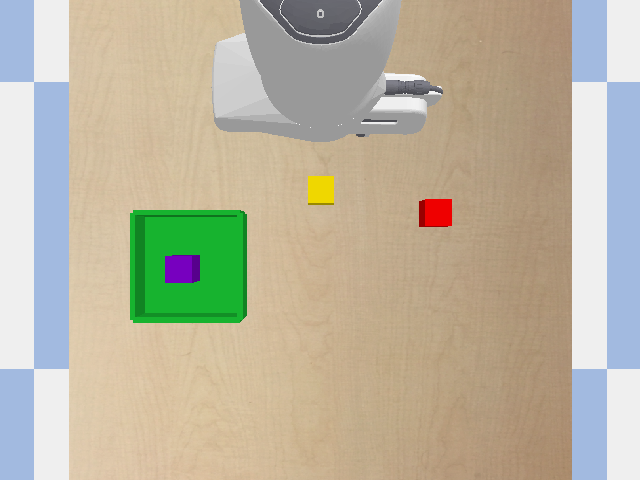
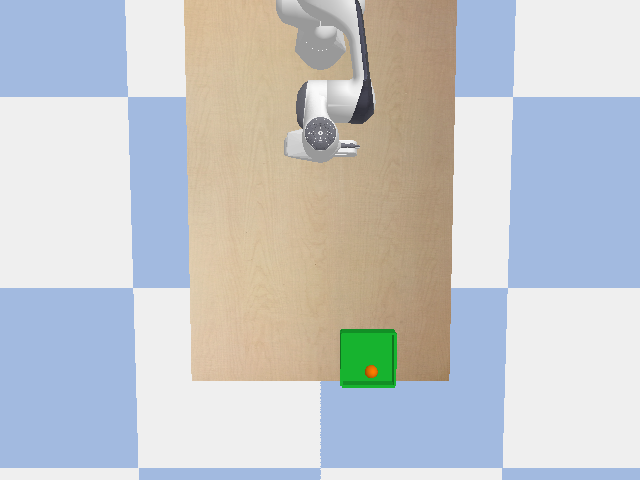
Robot learns hidden physics: throw misses -20%, learns x1.16 correction, new target hit first try

diff --git a/skills.py b/skills.py
@@ -1,17 +1,22 @@
 import ast
 
-API_METHODS = {"see", "pick", "place_on", "is_holding", "put_aside", "ask"}
+API_METHODS = {"see", "pick", "place_on", "is_holding", "put_aside", "ask",
+               "see_far", "release_point", "toss"}
 SAFE_BUILTINS = {"len", "range", "print", "abs", "min", "max", "round", "str", "int",
                  "float", "bool", "list", "enumerate", "sorted", "any", "all", "isinstance"}
 MAX_ACTIONS = 30
 
 API_DOC = """
-robot.ask(question) -> short text answer from looking at the camera now, e.g. robot.ask("Which object is on top of the purple cube?") -> "yellow cube"
-robot.put_aside() -> True/False   (put the held object down on a free spot of the table)
 robot.see(phrase) -> list of [x, y, z] positions (top surface, meters), best match first; [] if not seen
 robot.pick(phrase) -> True/False   (pick up the object named by phrase)
 robot.place_on(phrase) -> True/False   (put the held object on top of / into the named thing)
 robot.is_holding() -> True/False
+robot.put_aside() -> True/False   (put the held object down on a free spot of the table)
+robot.ask(question) -> short text answer from looking at the camera now, e.g. robot.ask("Which object is on top of the purple cube?") -> "yellow cube"
+robot.see_far(phrase) -> like see(), but uses a wide camera that also sees far things (far tray, thrown ball)
+robot.release_point() -> [x, y, z] where a throw starts
+robot.toss(speed, angle_deg, heading_deg) -> True/False   (throw the held object; heading 0 = +x, 90 = +y; speed 0-6 m/s; the landing spot is measured and logged)
+Math helpers: math.sqrt, math.sin, math.cos, math.tan, math.atan2, math.radians, math.degrees, math.hypot, math.pi, and G = 9.81
 Phrases are short noun phrases, e.g. "red cube", "blue cube", "tray".
 """
 
@@ -20,23 +25,12 @@ class RobotAPI:
     def __init__(self, env):
         self.env = env
         self.log = []
+        self.last_phrase = None
 
     def _record(self, action, arg, result):
         self.log.append({"action": action, "arg": arg, "result": result})
         if len(self.log) > MAX_ACTIONS:
             raise RuntimeError("too many actions")
-        
-    def ask(self, question):
-        from llm import spark_vision
-        rgb, _ = self.env.camera()
-        answer = spark_vision(question, rgb)
-        self._record("ask", question, answer)
-        return answer  
-      
-    def put_aside(self):
-        ok, msg = self.env.put_aside()
-        self._record("put_aside", "", msg)
-        return ok    
 
     def see(self, phrase):
         found = [[round(c, 3) for c in f["pos"]] for f in self.env.perceive(phrase)]
@@ -46,6 +40,8 @@ class RobotAPI:
     def pick(self, phrase):
         ok, msg = self.env.pick_seen(phrase)
         self._record("pick", phrase, msg)
+        if ok:
+            self.last_phrase = phrase
         return ok
 
     def place_on(self, phrase):
@@ -55,6 +51,46 @@ class RobotAPI:
 
     def is_holding(self):
         return self.env.held is not None
+
+    def put_aside(self):
+        ok, msg = self.env.put_aside()
+        self._record("put_aside", "", msg)
+        return ok
+
+    def ask(self, question):
+        from llm import spark_vision
+        rgb, _ = self.env.camera()
+        answer = spark_vision(question, rgb)
+        self._record("ask", question, answer)
+        return answer
+
+    def see_far(self, phrase):
+        found = [[round(c, 3) for c in f["pos"]] for f in self.env.perceive(phrase, "wide")]
+        self._record("see_far", phrase, found)
+        return found
+
+    def release_point(self):
+        from robot_env import RELEASE
+        return list(RELEASE)
+
+    def toss(self, speed, angle_deg, heading_deg):
+        from robot_env import RELEASE
+        speed, angle_deg, heading_deg = float(speed), float(angle_deg), float(heading_deg)
+        args = f"speed={speed:.3f}, angle={angle_deg:.1f}, heading={heading_deg:.1f}"
+        if not 0 < speed <= 6:
+            self._record("toss", args, "REFUSED: speed outside safe range 0-6 m/s")
+            return False
+        ok, msg = self.env.toss(speed, angle_deg, heading_deg)
+        if ok and self.last_phrase:  # measure where it landed (SAM 3.1, wide camera)
+            found = self.env.perceive(self.last_phrase, "wide")
+            if found:
+                lx, ly, lz = found[0]["pos"]
+                d = ((lx - RELEASE[0]) ** 2 + (ly - RELEASE[1]) ** 2) ** 0.5
+                msg += f"; landed at [{lx:.3f}, {ly:.3f}, {lz:.3f}], {d:.3f} m from release point"
+            else:
+                msg += "; landing spot not visible"
+        self._record("toss", args, msg)
+        return ok
 
 
 def check_code(code):
@@ -87,7 +123,12 @@ def check_code(code):
 
 def run_skill(code, api):
     import builtins
+    import math
+    from types import SimpleNamespace
     safe = {k: getattr(builtins, k) for k in SAFE_BUILTINS}
-    scope = {"__builtins__": safe}
+    math_tools = SimpleNamespace(**{k: getattr(math, k) for k in
+                                    ("sqrt", "sin", "cos", "tan", "atan", "atan2", "asin", "acos",
+                                     "radians", "degrees", "hypot", "pi")})
+    scope = {"__builtins__": safe, "math": math_tools, "G": 9.81}
     exec(compile(code, "<skill>", "exec"), scope)
     return scope["skill"](api)

diff --git a/learner.py b/learner.py
@@ -20,8 +20,8 @@ Check return values. Return True if the task is done, else False.
 Reply with only one ```python code block."""
 
 
-def load_library():
-    return json.load(open(LIBRARY)) if os.path.exists(LIBRARY) else []
+def load_library(path=LIBRARY):
+    return json.load(open(path)) if os.path.exists(path) else []
 
 
 def memory_text(lib):
@@ -36,7 +36,7 @@ def memory_text(lib):
 
 def run_attempt(code, build_scene, check, gui):
     env = build_scene(gui)
-    before, _ = env.camera()
+    before, _ = env.camera(env.main_view)
     api = RobotAPI(env)
     problem = check_code(code)
     if problem:
@@ -47,22 +47,22 @@ def run_attempt(code, build_scene, check, gui):
         except Exception as e:
             result = f"crashed: {e}"
     env.go_home()  # move the arm out of the camera's view
-    after, _ = env.camera()
+    after, _ = env.camera(env.main_view)
     ok, msg = check(env)
     env.close()
     return ok, msg, result, api.log, before, after
 
 
-def learn(task, build_scene, check, use_memory=True, save=True,
-          max_attempts=3, gui=True, verbose=True, use_imagination=True):
-    lib = load_library() if use_memory else []
+def learn(task, build_scene, check, use_memory=True, save=True, max_attempts=3,
+          gui=True, verbose=True, use_imagination=True, library=LIBRARY):
+    lib = load_library(library) if use_memory else []
 
     # 1) IMAGINE the goal before acting (Muse Image)
     imagined = None
     if use_imagination:
         try:
             env0 = build_scene(False)
-            start, _ = env0.camera()
+            start, _ = env0.camera(env0.main_view)
             env0.close()
             imagined = imagine(task, start)
             Image.fromarray(imagined).save("runs/imagined.png")
@@ -107,13 +107,14 @@ def learn(task, build_scene, check, use_memory=True, save=True,
                     {"role": "user", "content":
                         "It worked. Write ONE short general LESSON (one sentence) that would "
                         "help with similar future tasks in other layouts and with other objects. "
+                        "If you discovered a numeric correction, include the number. "
                         "Start with 'LESSON:'."},
                 ]
                 r, _ = spark(messages, effort="low")
                 lesson = r.split("LESSON:", 1)[-1].strip().splitlines()[0]
-                all_lib = load_library()
+                all_lib = load_library(library)
                 all_lib.append({"task": task, "code": code, "attempts": attempt, "lesson": lesson})
-                json.dump(all_lib, open(LIBRARY, "w"), indent=2)
+                json.dump(all_lib, open(library, "w"), indent=2)
                 if verbose:
                     print("💾 LESSON:", lesson)
             return {"success": True, "attempts": attempt, "code": code, "lesson": lesson,

diff --git a/robot_env.py b/robot_env.py
@@ -12,11 +12,13 @@ ALIASES = {"tray": ["green box", "green tray", "green container"]}
 VIEWS = {
     "top": ([0.55, 0, 1.45], [0.55, 0, TABLE_Z], [-1, 0, 0]),
     "side": ([0.55, 0.80, 1.10], [0.58, 0.05, TABLE_Z], [0, 0, 1]),
+    "wide": ([0.60, 0, 2.2], [0.70, 0, TABLE_Z], [-1, 0, 0]),
 }
+RELEASE = [0.35, 0.0, 0.95]  # where the hand releases a throw
 
 
 class RobotEnv:
-    def __init__(self, gui=True):
+    def __init__(self, gui=True, tray_xy=(0.6, -0.25)):
         self.gui = gui
         p.connect(p.GUI if gui else p.DIRECT)
         p.setAdditionalSearchPath(pybullet_data.getDataPath())
@@ -28,8 +30,9 @@ class RobotEnv:
             p.resetJointState(self.robot, j, q)
         self.objects = {}
         self.held = None  # (name, constraint_id)
-        self.objects["tray"] = self.make_tray([0.6, -0.25])
+        self.objects["tray"] = self.make_tray(list(tray_xy))
         self.hover_hook = None  # test/demo hook: runs while the arm hovers above a target
+        self.main_view = "top"  # which camera shows the whole task
     
     def make_tray(self, center, size=0.20, wall=0.01, height=0.05, rgba=(0.1, 0.75, 0.2, 1)):
         cx, cy = center
@@ -249,3 +252,30 @@ class RobotEnv:
 
     def close(self):
         p.disconnect()
+    
+    def add_ball(self, name, xy, rgba, radius=0.025, mass=0.1, drag=0.04):
+        col = p.createCollisionShape(p.GEOM_SPHERE, radius=radius)
+        vis = p.createVisualShape(p.GEOM_SPHERE, radius=radius, rgbaColor=rgba)
+        body = p.createMultiBody(mass, col, vis, [xy[0], xy[1], TABLE_Z + radius + 0.005])
+        p.changeDynamics(body, -1, linearDamping=drag, restitution=0.2,
+                         lateralFriction=0.8, rollingFriction=0.01, spinningFriction=0.01)
+        self.objects[name] = body
+
+    def toss(self, speed, angle_deg, heading_deg):
+        """Simplified throw: release the held object at RELEASE with the given velocity."""
+        if not self.held:
+            return False, "not holding anything"
+        self.move_to(RELEASE, steps=240)
+        name, c = self.held
+        body = self.objects[name]
+        for link in range(-1, p.getNumJoints(self.robot)):  # don't let the hand hit the throw
+            p.setCollisionFilterPair(self.robot, body, link, -1, 0)
+        p.removeConstraint(c)
+        self.held = None
+        th, ps = np.radians(angle_deg), np.radians(heading_deg)
+        v = [speed * np.cos(th) * np.cos(ps), speed * np.cos(th) * np.sin(ps), speed * np.sin(th)]
+        p.resetBaseVelocity(body, linearVelocity=v)
+        self.gripper(True)
+        self.step(600)  # flight + landing
+        self.go_home()
+        return True, f"tossed {name}: {speed:.2f} m/s, {angle_deg:.1f} deg, heading {heading_deg:.1f} deg"    

diff --git a/tasks.py b/tasks.py
@@ -1,12 +1,16 @@
+import random
+
 from robot_env import RobotEnv
 
 
-def in_tray(env, name):
+def in_tray(env, name, label=None):
+    label = label or f"{name} cube"
     tray, pos = env.get_pos("tray"), env.get_pos(name)
     ok = abs(pos[0] - tray[0]) < 0.1 and abs(pos[1] - tray[1]) < 0.1
-    return ok, f"{name} cube is in the tray" if ok else f"{name} cube is NOT in the tray"
+    return ok, f"{label} is in the tray" if ok else f"{label} is NOT in the tray"
 
 
+# ---------- cube tasks (hidden objects) ----------
 def scene_blue_hidden(gui=True):
     env = RobotEnv(gui=gui)
     env.add_cube("blue", [0.58, 0.12], [0, 0, 1, 1])
@@ -32,7 +36,6 @@ TASKS = {
     "purple_hidden": ("Put the purple cube into the tray.", scene_purple_hidden,
                       lambda env: in_tray(env, "purple")),
 }
-import random
 
 COLORS = {"red": [1, 0, 0, 1], "blue": [0, 0, 1, 1], "purple": [0.5, 0, 0.8, 1],
           "yellow": [1, 0.9, 0, 1], "orange": [1, 0.5, 0, 1]}
@@ -62,3 +65,26 @@ def random_hidden_task(seed):
 
     task = f"Put the {target} cube into the tray."
     return task, build, (lambda env: in_tray(env, target))
+
+
+# ---------- throw tasks (tray out of reach, hidden drag) ----------
+HIDDEN_DRAG = 0.3  # the robot does NOT know this
+
+
+def throw_scene(tray_xy, ball_xy=(0.50, 0.15)):
+    def build(gui=False):
+        env = RobotEnv(gui=gui, tray_xy=tray_xy)
+        env.main_view = "wide"
+        env.add_ball("ball", list(ball_xy), [1, 0.5, 0, 1], drag=HIDDEN_DRAG)
+        env.step(120)
+        return env
+    return build
+
+
+THROW_TEXT = "Throw the orange ball into the tray. The tray is out of the arm's reach."
+THROW_TASKS = {
+    "throw_A": (THROW_TEXT, throw_scene((1.05, 0.0)),
+                lambda env: in_tray(env, "ball", "orange ball")),
+    "throw_B": (THROW_TEXT, throw_scene((1.15, 0.18)),
+                lambda env: in_tray(env, "ball", "orange ball")),
+}

diff --git a/test_toss.py b/test_toss.py
@@ -1,0 +1,37 @@
+import math
+
+from robot_env import RELEASE, RobotEnv
+
+G = 9.81
+HIDDEN_DRAG = 0.3  # the robot does NOT know this
+
+env = RobotEnv(gui=True, tray_xy=(1.05, 0.0))   # tray far away, out of reach
+env.add_ball("ball", [0.50, 0.15], [1, 0.5, 0, 1], drag=HIDDEN_DRAG)
+env.step(120)
+
+print("pick:", env.pick_seen("orange ball"))
+
+# where is the tray? (measured by SAM 3.1 from the wide camera)
+tx, ty, tz = env.perceive("tray", "wide")[0]["pos"]
+tz += 0.025                                       # ball center height when resting in the tray
+rx, ry, rz = RELEASE
+d = math.hypot(tx - rx, ty - ry)                  # horizontal distance
+h = tz - rz                                       # height change (negative = downhill)
+angle = math.radians(45)
+
+# projectile motion, no drag:  v^2 = g d^2 / (2 cos^2(a) (d tan(a) - h))
+v = math.sqrt(G * d * d / (2 * math.cos(angle) ** 2 * (d * math.tan(angle) - h)))
+heading = math.degrees(math.atan2(ty - ry, tx - rx))
+print(f"target distance {d:.3f} m, height change {h:.3f} m -> pure-math speed {v:.3f} m/s")
+
+print("toss:", env.toss(v, 45, heading))
+
+lx, ly, _ = env.perceive("orange ball", "wide")[0]["pos"]
+landed = math.hypot(lx - rx, ly - ry)
+print(f"ball landed at {landed:.3f} m  (wanted {d:.3f} m)  -> {100 * (landed - d) / d:+.0f}%")
+
+tray, ball = env.get_pos("tray"), env.get_pos("ball")
+print("in tray:", abs(ball[0] - tray[0]) < 0.1 and abs(ball[1] - tray[1]) < 0.1)
+
+while True:
+    env.step()

diff --git a/throw_demo.py b/throw_demo.py
@@ -1,0 +1,18 @@
+import os
+
+from learner import learn
+from tasks import THROW_TASKS
+
+LIB = "throw_library.json"
+if os.path.exists(LIB):
+    os.remove(LIB)  # start with an empty physics memory
+
+print("=========== THROW A: tray at 1.05 m (no experience) ===========")
+a = learn(*THROW_TASKS["throw_A"], library=LIB, max_attempts=4)
+
+print("\n=========== THROW B: tray moved to a NEW spot (with memory) ===========")
+b = learn(*THROW_TASKS["throw_B"], library=LIB, max_attempts=4)
+
+print("\n=========== SUMMARY ===========")
+print(f"Throw A (no memory):   success={a['success']}  attempts={a['attempts']}")
+print(f"Throw B (with memory): success={b['success']}  attempts={b['attempts']}")

diff --git a/list_objects.py b/list_objects.py
@@ -1,0 +1,8 @@
+import os
+import pybullet_data
+
+root = pybullet_data.getDataPath()
+for name in sorted(os.listdir(root)):
+    if name.endswith(".urdf"):
+        print(name)
+print("\nFolders:", [d for d in sorted(os.listdir(root)) if os.path.isdir(os.path.join(root, d))])
